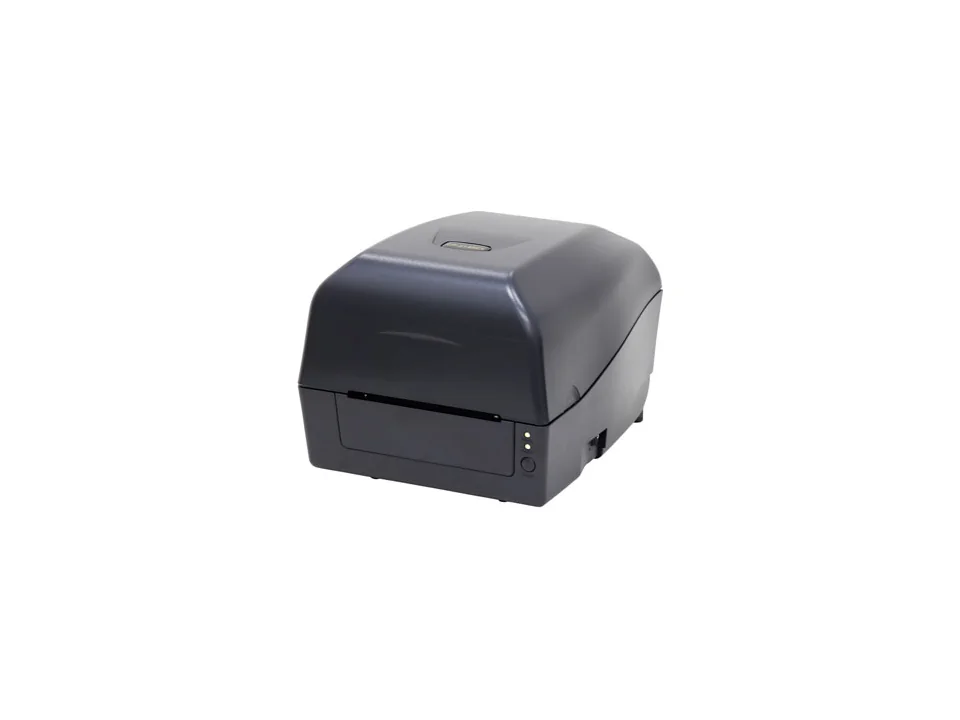
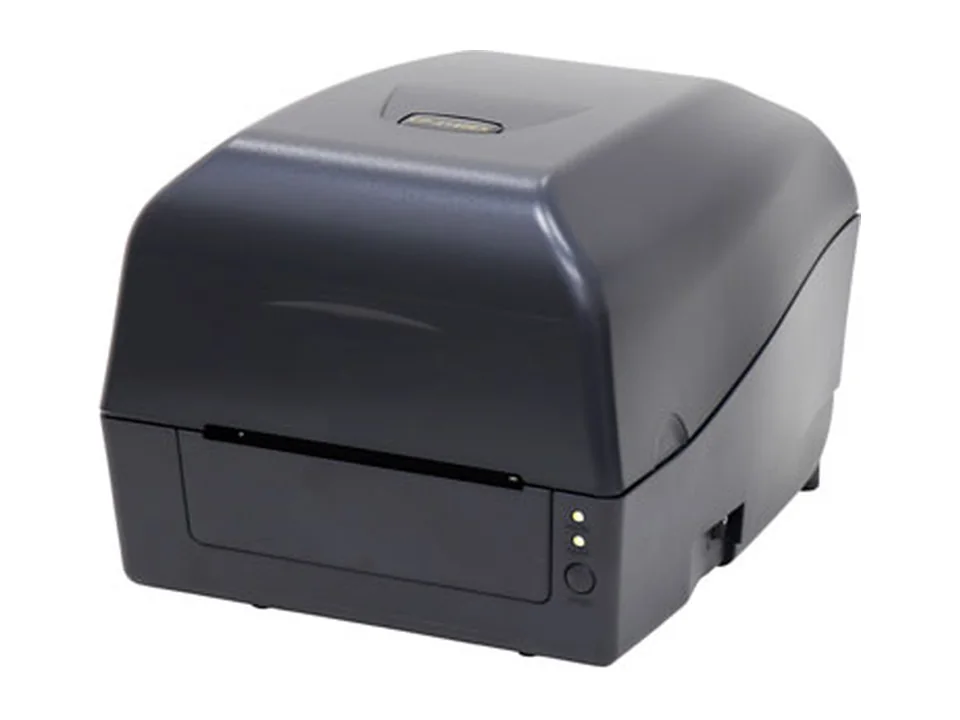
Printer page review fixes: Argox photos fill frame, spec rows align, phone cards tighter

diff --git a/hardware.html b/hardware.html
@@ -150,9 +150,9 @@
         <h3 class="h3">How wide is the label?</h3>
         <p class="ind-focus">Every printer has a maximum print width.</p>
         <ul class="ind-types">
-          <li>2-inch: up to about 54–56 mm</li>
-          <li>4-inch: up to about 104–108 mm</li>
-          <li>6-inch: up to 168 mm, for wide pallet labels</li>
+          <li>2-inch: up to about 54–56&nbsp;mm</li>
+          <li>4-inch: up to about 104–108&nbsp;mm</li>
+          <li>6-inch: up to 168&nbsp;mm, for wide pallet labels</li>
         </ul>
       </article>
 
@@ -216,7 +216,7 @@
             <div class="hw-top"><p class="hw-series">ZD SERIES</p><span class="hw-tier">2-inch</span></div>
             <h4>ZD411</h4>
             <p>Compact 2-inch desktop for small labels where space is tight.</p>
-            <dl class="prod-specs"><div><dt>Method</dt><dd>Direct thermal or thermal transfer</dd></div><div><dt>Resolution</dt><dd>203 or 300 dpi</dd></div><div><dt>Speed</dt><dd>Up to 6 ips (203) · 4 ips (300)</dd></div><div><dt>Print width</dt><dd>56 mm (203) · 54 mm (300)</dd></div></dl>
+            <dl class="prod-specs"><div><dt>Method</dt><dd>Direct thermal or thermal transfer</dd></div><div><dt>Resolution</dt><dd>203 or 300 dpi</dd></div><div><dt>Speed</dt><dd>Up to 6 ips (203)<br>4 ips (300)</dd></div><div><dt>Print width</dt><dd>56 mm (203)<br>54 mm (300)</dd></div></dl>
             <a class="hw-ask" href="index.html?enquiry=printer&amp;model=Zebra%20ZD411#quote">Ask about this model <span class="arw" aria-hidden="true">→</span></a>
           </div>
         </article>
@@ -226,7 +226,7 @@
             <div class="hw-top"><p class="hw-series">ZD SERIES</p><span class="hw-tier">4-inch</span></div>
             <h4>ZD421</h4>
             <p>4-inch desktop with a choice of direct thermal, ribbon roll or easy-load ribbon cartridge.</p>
-            <dl class="prod-specs"><div><dt>Method</dt><dd>Direct thermal, ribbon roll or ribbon cartridge</dd></div><div><dt>Resolution</dt><dd>203 or 300 dpi</dd></div><div><dt>Speed</dt><dd>Up to 6 ips (203) · 4 ips (300)</dd></div><div><dt>Print width</dt><dd>104 mm (203) · 106 mm (300)</dd></div></dl>
+            <dl class="prod-specs"><div><dt>Method</dt><dd>Direct thermal, ribbon roll or ribbon cartridge</dd></div><div><dt>Resolution</dt><dd>203 or 300 dpi</dd></div><div><dt>Speed</dt><dd>Up to 6 ips (203)<br>4 ips (300)</dd></div><div><dt>Print width</dt><dd>104 mm (203)<br>106 mm (300)</dd></div></dl>
             <a class="hw-ask" href="index.html?enquiry=printer&amp;model=Zebra%20ZD421#quote">Ask about this model <span class="arw" aria-hidden="true">→</span></a>
           </div>
         </article>
@@ -236,7 +236,7 @@
             <div class="hw-top"><p class="hw-series">ZD SERIES</p><span class="hw-tier">4-inch</span></div>
             <h4>ZD621</h4>
             <p>Premium 4-inch desktop for retail, hospitality wristbands and tickets, healthcare and government.</p>
-            <dl class="prod-specs"><div><dt>Method</dt><dd>Direct thermal or thermal transfer</dd></div><div><dt>Resolution</dt><dd>203 or 300 dpi</dd></div><div><dt>Speed</dt><dd>Up to 8 ips (203) · 6 ips (300)</dd></div><div><dt>Print width</dt><dd>104 mm (203) · 108 mm (300)</dd></div></dl>
+            <dl class="prod-specs"><div><dt>Method</dt><dd>Direct thermal or thermal transfer</dd></div><div><dt>Resolution</dt><dd>203 or 300 dpi</dd></div><div><dt>Speed</dt><dd>Up to 8 ips (203)<br>6 ips (300)</dd></div><div><dt>Print width</dt><dd>104 mm (203)<br>108 mm (300)</dd></div></dl>
             <a class="hw-ask" href="index.html?enquiry=printer&amp;model=Zebra%20ZD621#quote">Ask about this model <span class="arw" aria-hidden="true">→</span></a>
           </div>
         </article>
@@ -255,7 +255,7 @@
             <div class="hw-top"><p class="hw-series">ZT SERIES</p><span class="hw-tier">4-inch</span></div>
             <h4>ZT111</h4>
             <p>Entry point to Zebra industrial printing for steady, everyday volumes.</p>
-            <dl class="prod-specs"><div><dt>Method</dt><dd>Direct thermal or thermal transfer</dd></div><div><dt>Resolution</dt><dd>203 or 300 dpi</dd></div><div><dt>Speed</dt><dd>Up to 10 ips (203) · 6 ips (300)</dd></div><div><dt>Print width</dt><dd>104 mm</dd></div></dl>
+            <dl class="prod-specs"><div><dt>Method</dt><dd>Direct thermal or thermal transfer</dd></div><div><dt>Resolution</dt><dd>203 or 300 dpi</dd></div><div><dt>Speed</dt><dd>Up to 10 ips (203)<br>6 ips (300)</dd></div><div><dt>Print width</dt><dd>104 mm</dd></div></dl>
             <a class="hw-ask" href="index.html?enquiry=printer&amp;model=Zebra%20ZT111#quote">Ask about this model <span class="arw" aria-hidden="true">→</span></a>
           </div>
         </article>
@@ -265,7 +265,7 @@
             <div class="hw-top"><p class="hw-series">ZT SERIES</p><span class="hw-tier">4-inch</span></div>
             <h4>ZT231</h4>
             <p>Mid-range industrial printer with a 12 ips top speed.</p>
-            <dl class="prod-specs"><div><dt>Method</dt><dd>Direct thermal or thermal transfer</dd></div><div><dt>Resolution</dt><dd>203 or 300 dpi</dd></div><div><dt>Speed</dt><dd>Up to 12 ips (203) · 8 ips (300)</dd></div><div><dt>Print width</dt><dd>104 mm</dd></div></dl>
+            <dl class="prod-specs"><div><dt>Method</dt><dd>Direct thermal or thermal transfer</dd></div><div><dt>Resolution</dt><dd>203 or 300 dpi</dd></div><div><dt>Speed</dt><dd>Up to 12 ips (203)<br>8 ips (300)</dd></div><div><dt>Print width</dt><dd>104 mm</dd></div></dl>
             <a class="hw-ask" href="index.html?enquiry=printer&amp;model=Zebra%20ZT231#quote">Ask about this model <span class="arw" aria-hidden="true">→</span></a>
           </div>
         </article>
@@ -333,7 +333,7 @@
             <div class="hw-top"><p class="hw-series">ZC SERIES</p><span class="hw-tier">CR80 card</span></div>
             <h4>ZC100</h4>
             <p>Single-sided card printer for ID badges, access and membership cards.</p>
-            <dl class="prod-specs"><div><dt>Method</dt><dd>Dye-sublimation, direct-to-card</dd></div><div><dt>Resolution</dt><dd>300 dpi</dd></div><div><dt>Speed</dt><dd>Up to 150 cards/hr colour · 700 mono</dd></div><div><dt>Card size</dt><dd>CR80 (standard ID card)</dd></div></dl>
+            <dl class="prod-specs"><div><dt>Method</dt><dd>Dye-sublimation, direct-to-card</dd></div><div><dt>Resolution</dt><dd>300 dpi</dd></div><div><dt>Speed</dt><dd>Up to 150 cards/hr colour<br>700 mono</dd></div><div><dt>Card size</dt><dd>CR80 (standard ID card)</dd></div></dl>
             <a class="hw-ask" href="index.html?enquiry=printer&amp;model=Zebra%20ZC100#quote">Ask about this model <span class="arw" aria-hidden="true">→</span></a>
           </div>
         </article>
@@ -343,7 +343,7 @@
             <div class="hw-top"><p class="hw-series">ZC SERIES</p><span class="hw-tier">CR80 card</span></div>
             <h4>ZC300</h4>
             <p>Single- or dual-sided card printer for higher card volumes.</p>
-            <dl class="prod-specs"><div><dt>Method</dt><dd>Dye-sublimation, direct-to-card</dd></div><div><dt>Resolution</dt><dd>300 dpi</dd></div><div><dt>Single-sided</dt><dd>Up to 200 cards/hr colour · 900 mono</dd></div><div><dt>Dual-sided</dt><dd>Up to 140 cards/hr colour · 450 mono</dd></div></dl>
+            <dl class="prod-specs"><div><dt>Method</dt><dd>Dye-sublimation, direct-to-card</dd></div><div><dt>Resolution</dt><dd>300 dpi</dd></div><div><dt>Single-sided</dt><dd>Up to 200 cards/hr colour<br>900 mono</dd></div><div><dt>Dual-sided</dt><dd>Up to 140 cards/hr colour<br>450 mono</dd></div></dl>
             <a class="hw-ask" href="index.html?enquiry=printer&amp;model=Zebra%20ZC300#quote">Ask about this model <span class="arw" aria-hidden="true">→</span></a>
           </div>
         </article>
@@ -372,7 +372,7 @@
             <div class="hw-top"><p class="hw-series">ZE500 SERIES</p><span class="hw-tier">6-inch</span></div>
             <h4>ZE521</h4>
             <p>6-inch print engine for wide labels on print-and-apply systems.</p>
-            <dl class="prod-specs"><div><dt>Method</dt><dd>Direct thermal or thermal transfer</dd></div><div><dt>Resolution</dt><dd>203 or 300 dpi</dd></div><div><dt>Speed</dt><dd>Up to 14 ips (203) · 12 ips (300)</dd></div><div><dt>Print width</dt><dd>168 mm</dd></div></dl>
+            <dl class="prod-specs"><div><dt>Method</dt><dd>Direct thermal or thermal transfer</dd></div><div><dt>Resolution</dt><dd>203 or 300 dpi</dd></div><div><dt>Speed</dt><dd>Up to 14 ips (203)<br>12 ips (300)</dd></div><div><dt>Print width</dt><dd>168 mm</dd></div></dl>
             <a class="hw-ask" href="index.html?enquiry=printer&amp;model=Zebra%20ZE521#quote">Ask about this model <span class="arw" aria-hidden="true">→</span></a>
           </div>
         </article>
@@ -382,7 +382,7 @@
             <div class="hw-top"><p class="hw-series">ZD SERIES · HEALTHCARE</p><span class="hw-tier">4-inch</span></div>
             <h4>ZD621-HC</h4>
             <p>Disinfectant-ready, UV-resistant housing and an IEC 60601-1 power supply, for Rx, specimen, wristband, blood and IV labels. A 2-inch ZD611-HC is also available.</p>
-            <dl class="prod-specs"><div><dt>Method</dt><dd>Direct thermal or thermal transfer</dd></div><div><dt>Resolution</dt><dd>203 or 300 dpi</dd></div><div><dt>Speed</dt><dd>Up to 8 ips (203) · 6 ips (300)</dd></div><div><dt>Print width</dt><dd>104 mm</dd></div></dl>
+            <dl class="prod-specs"><div><dt>Method</dt><dd>Direct thermal or thermal transfer</dd></div><div><dt>Resolution</dt><dd>203 or 300 dpi</dd></div><div><dt>Speed</dt><dd>Up to 8 ips (203)<br>6 ips (300)</dd></div><div><dt>Print width</dt><dd>104 mm</dd></div></dl>
             <a class="hw-ask" href="index.html?enquiry=printer&amp;model=Zebra%20ZD621-HC#quote">Ask about this model <span class="arw" aria-hidden="true">→</span></a>
           </div>
         </article>

diff --git a/site-csp.css b/site-csp.css
@@ -754,9 +754,10 @@ ul{margin:0;padding:0;list-style:none}
 .hw-tier{font-family:var(--mono);font-size:.625rem;letter-spacing:.12em;text-transform:uppercase;color:var(--ink-soft);border:1px solid var(--border);border-radius:2px;padding:.15rem .45rem;white-space:nowrap}
 .hw-card h4{font-family:var(--display);font-size:1.3rem;font-weight:600;letter-spacing:-.01em;margin-bottom:var(--s3)}
 .hw-card p{font-size:.875rem;color:var(--ink-soft);margin-bottom:var(--s4)}
-.hw-card .prod-specs{margin-bottom:var(--s4)}
+.hw-card .prod-specs{margin-bottom:var(--s5)}
+.hw-card .prod-specs dd{line-height:1.5}
 .hw-ask{
-  margin-top:auto;font-family:var(--sans);font-size:.75rem;font-weight:600;letter-spacing:.1em;text-transform:uppercase;
+  font-family:var(--sans);font-size:.75rem;font-weight:600;letter-spacing:.1em;text-transform:uppercase;
   text-decoration:none;color:var(--ink);display:inline-flex;gap:var(--s2);align-items:center;
 }
 .hw-ask:hover{color:var(--gold)}
@@ -785,4 +786,10 @@ ul{margin:0;padding:0;list-style:none}
   .hw-teaser-tile span{padding:var(--s2);font-size:.5625rem;letter-spacing:.08em}
   .hw-cat-head{grid-template-columns:1fr}
   .hw-cat-code{grid-row:auto}
+  .hw-cat{padding-top:var(--s6)}
+  .hw-cat + .hw-cat{margin-top:var(--s6)}
+  .hw-grid{gap:var(--s4)}
+  .hw-card .hw-img{aspect-ratio:16/10}
+  .hw-card .hw-img img{padding:5%}
+  .hw-body{padding:var(--s4) var(--s5) var(--s5)}
 }
